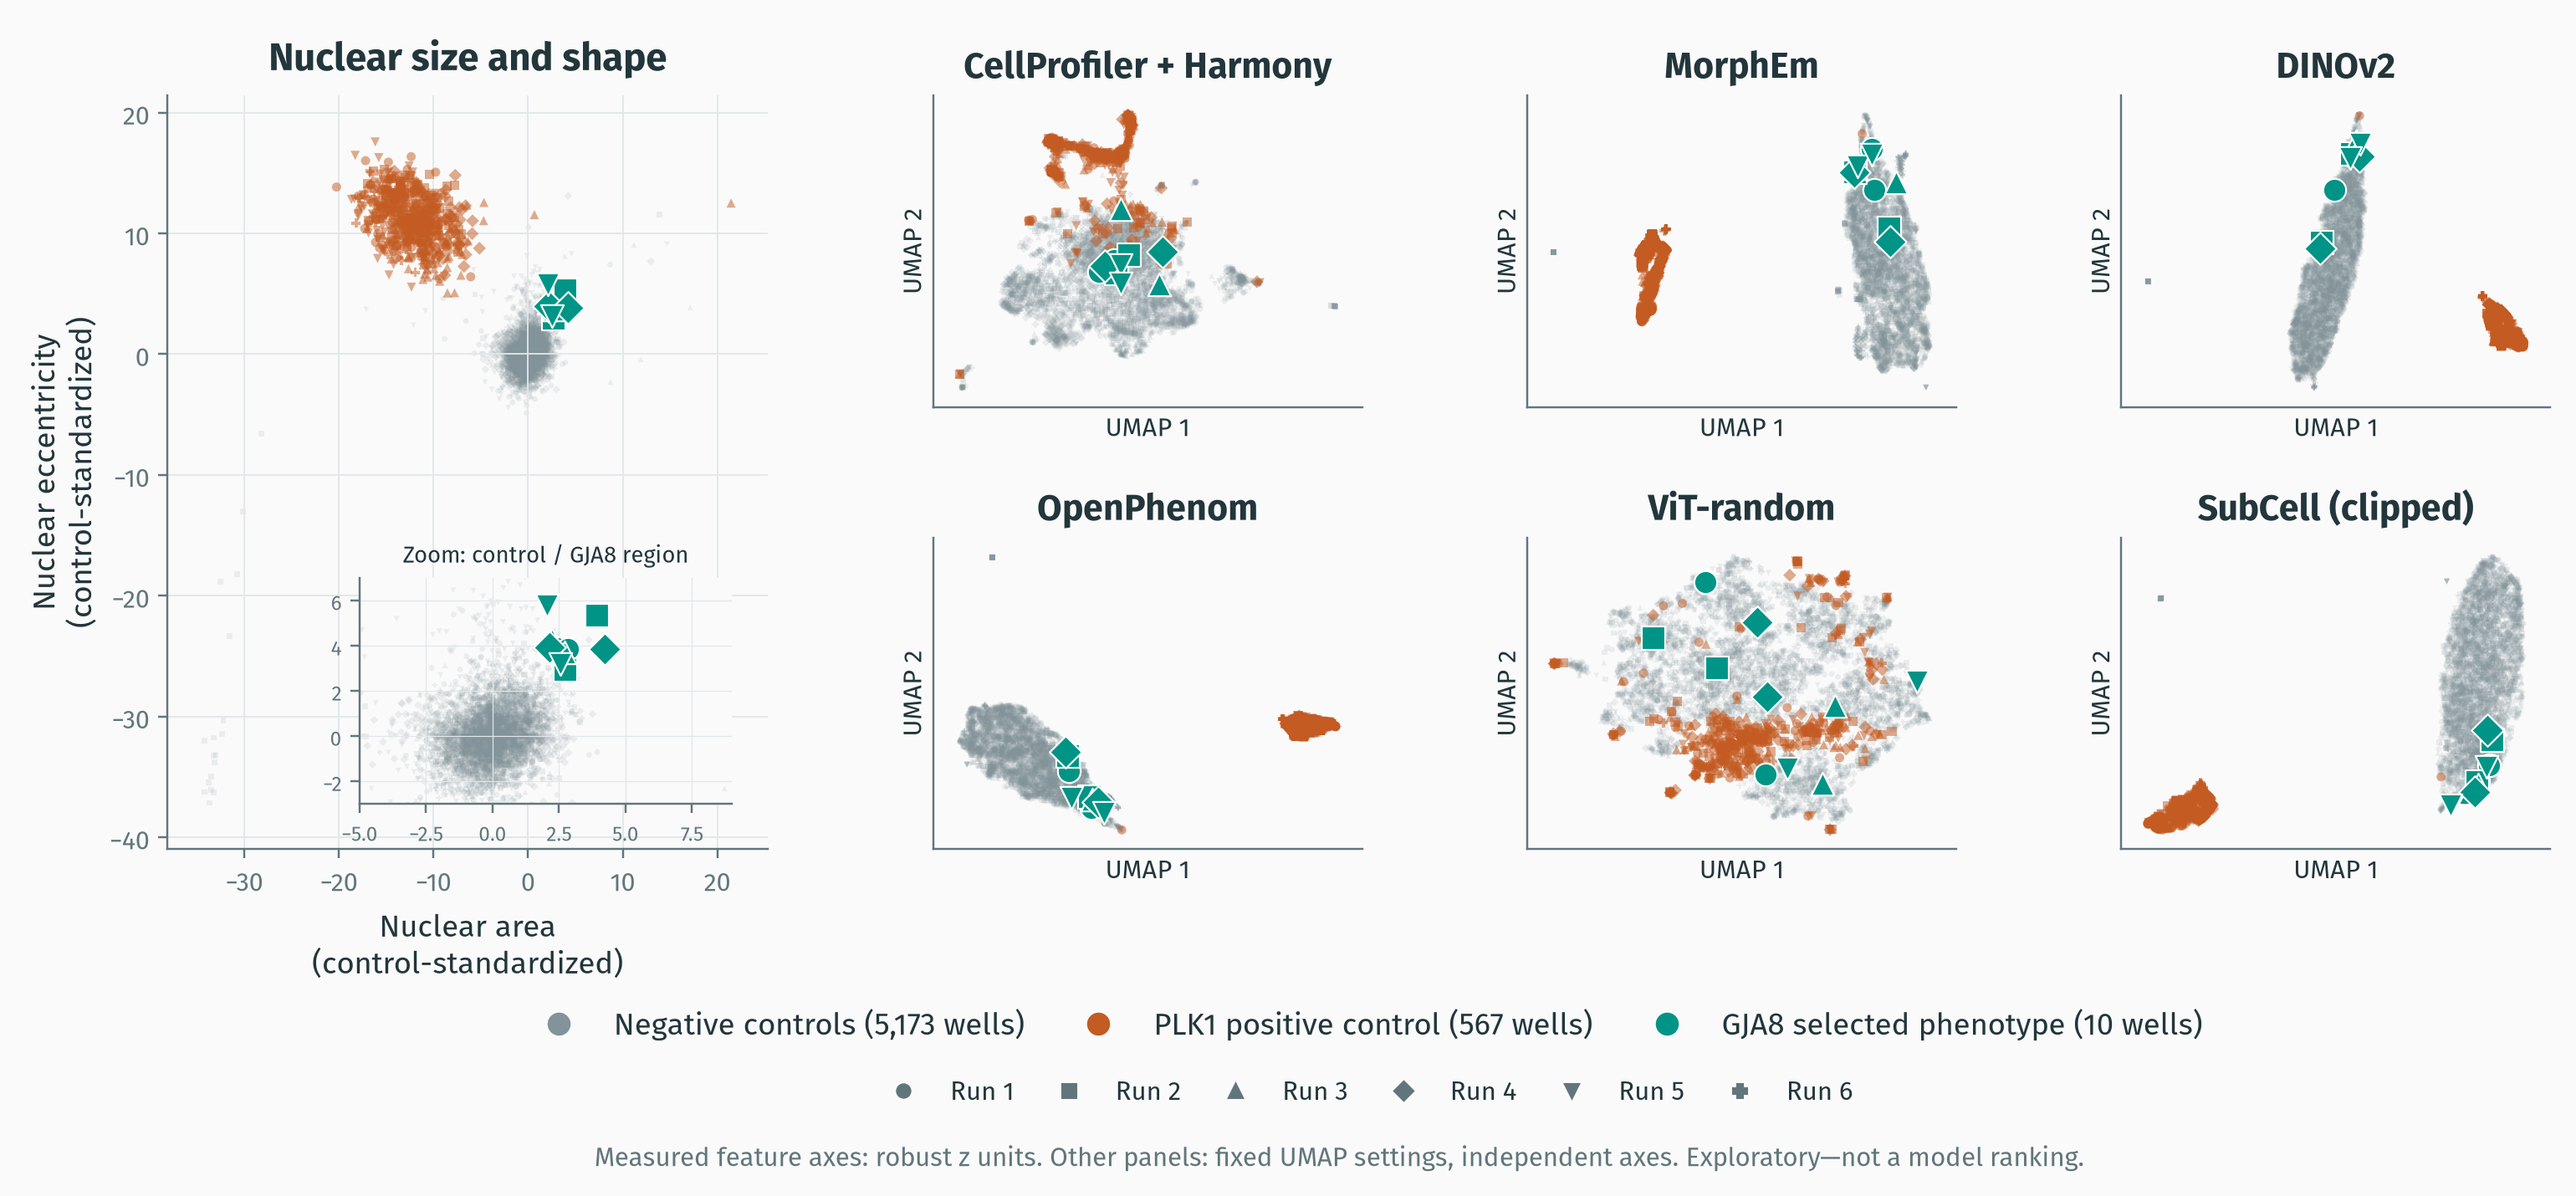
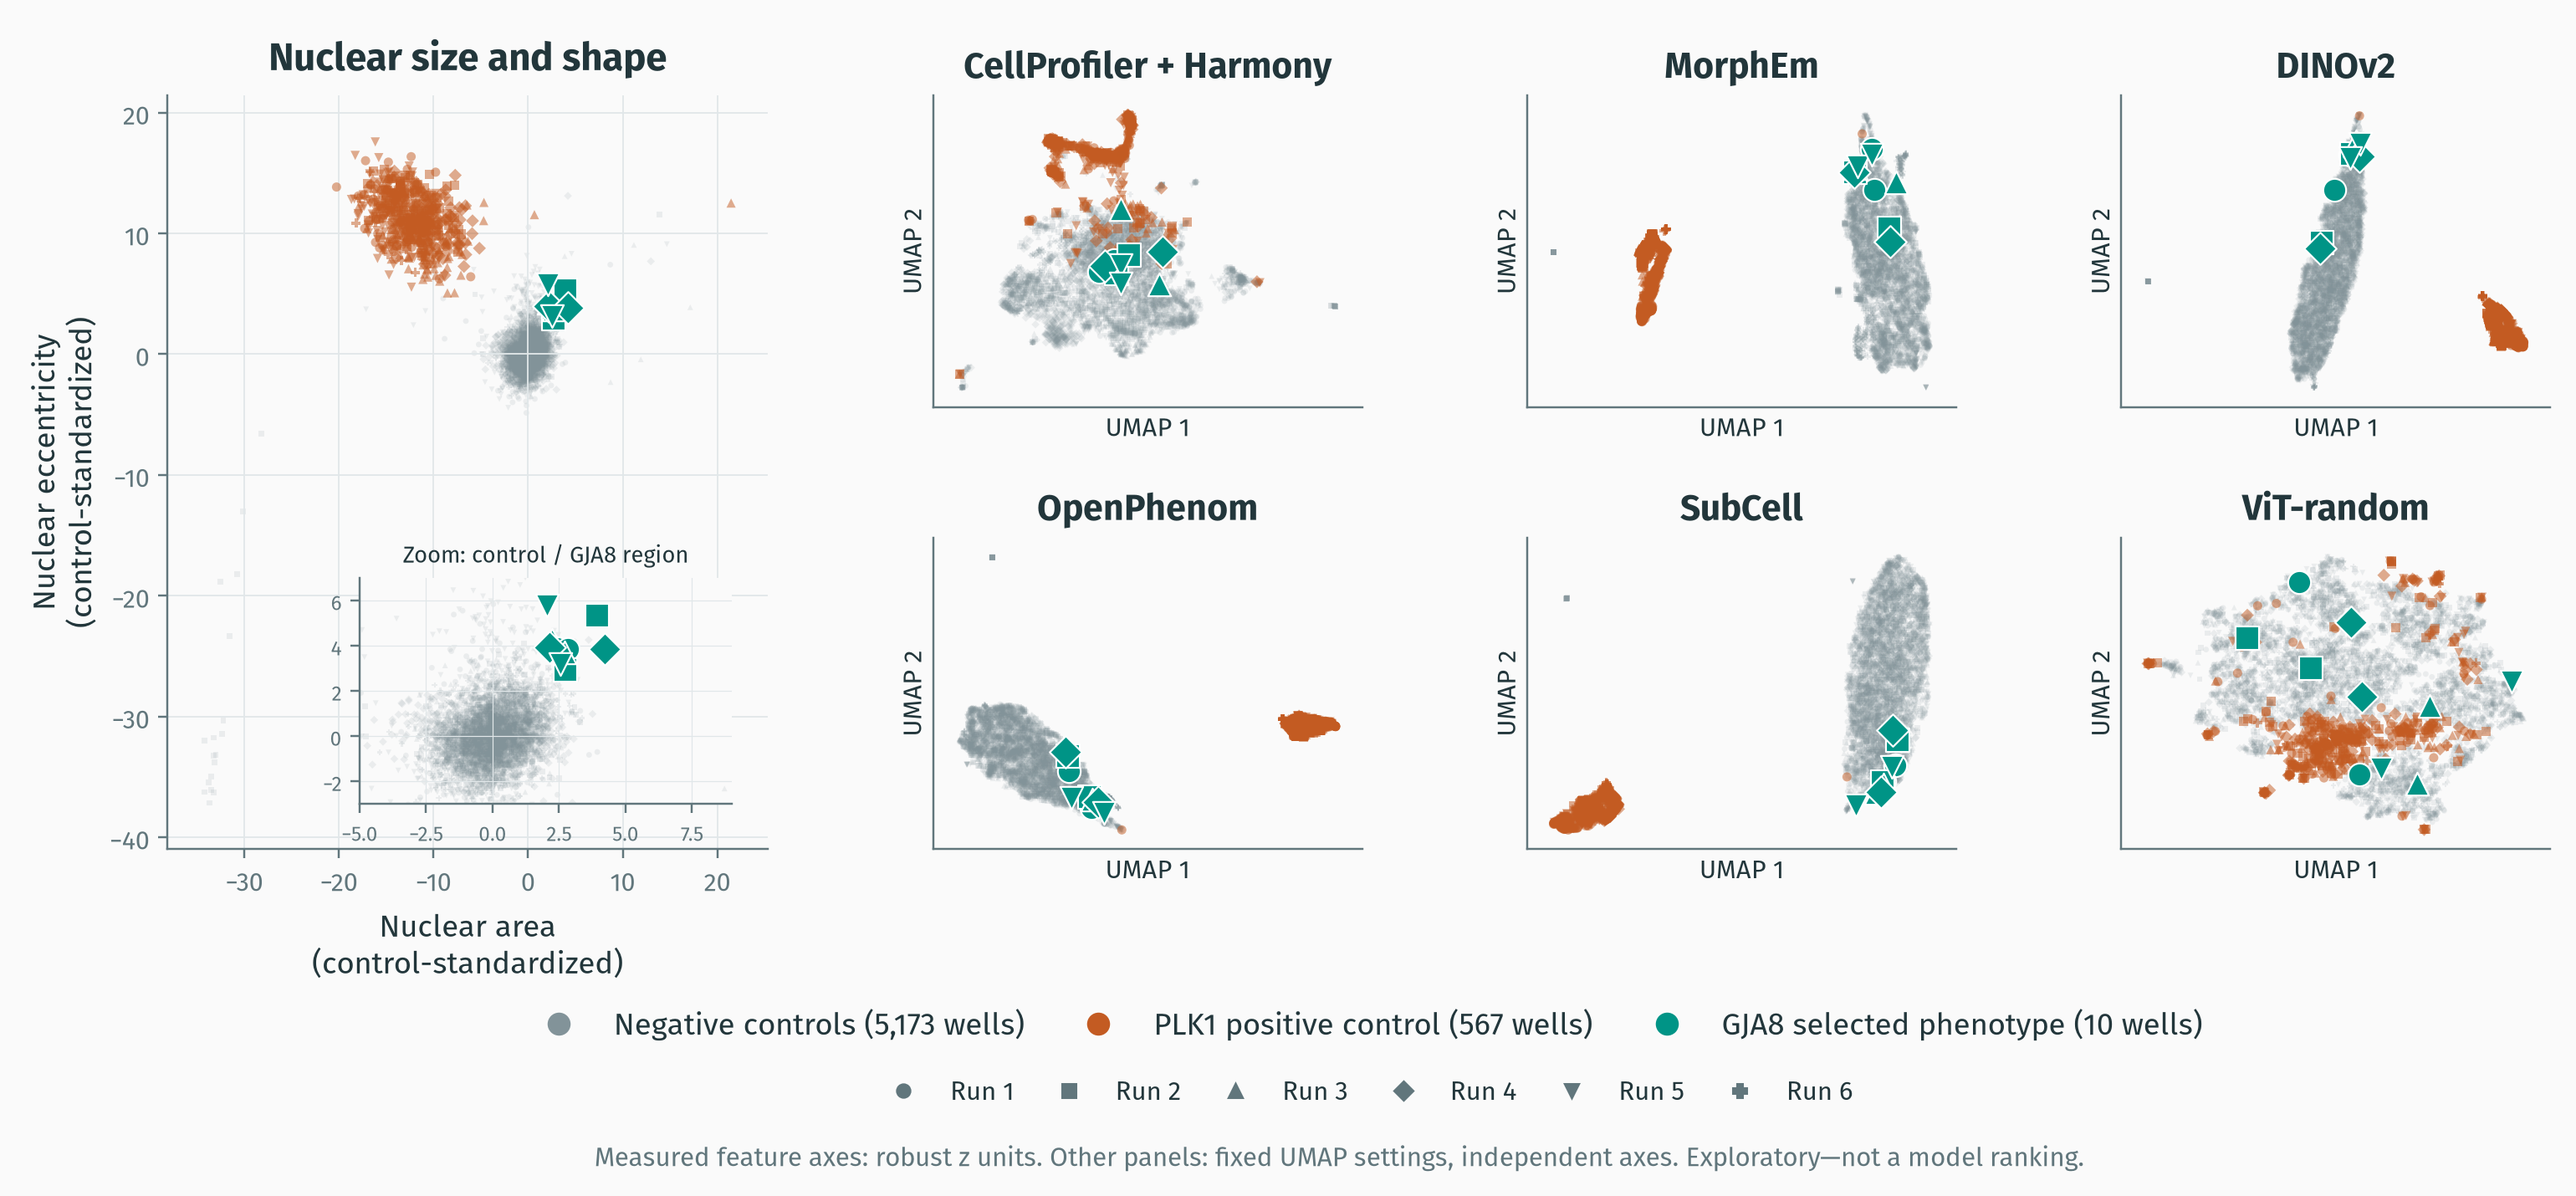
Place control context before profile extraction and remove uv reference

Changed region(s): [[0.8104, 0.4, 0.9974, 0.7077], [0.5922, 0.4615, 0.7481, 0.7077], [0.6234, 0.4, 0.7169, 0.4308]]

diff --git a/slides.tex b/slides.tex
@@ -29,7 +29,7 @@
 
 \maketitle
 \section*{Conference draft}
-\label{sec:org000001a}
+\label{sec:org000001b}
 \begin{frame}[label={sec:org0000001}]{What is Cell Painting?}
 \begin{columns}[c,onlytextwidth]
 \begin{column}{0.36\textwidth}
@@ -105,7 +105,7 @@ Profiles are numerical descriptions of cells.
 \begin{frame}[label={sec:org0000007}]{How do we ensure improvements in computational models/methods benefit experimental biologists?}
 \begin{columns}[T,onlytextwidth]
 \begin{column}{0.48\textwidth}
-\begin{block}{Method development}
+\begin{block}{Methods development (ML)}
 Does the model improve benchmark performance?
 \end{block}
 \end{column}
@@ -253,7 +253,14 @@ Interactive marimo notebook
 
 \par\smallskip\hfill{\fontsize{5.5}{6.5}\selectfont\color{gray}\href{https://doi.org/10.5281/zenodo.23462248}{Source: Muñoz (2026), JUMP Target-2 notebook recording}}
 \end{frame}
-\begin{frame}[label={sec:org0000013}]{Extract morphological profiles from your own images}
+\begin{frame}[label={sec:org0000013}]{Positive controls contextualize the perturbations}
+\begin{center}
+\includegraphics[keepaspectratio,width=0.99\linewidth,height=0.85\textheight]{assets/real-embeddings-combined.png}
+\end{center}
+
+\hfill{\fontsize{5.5}{6.5}\selectfont\color{gray}\href{https://arxiv.org/abs/2608.07632v3}{Data: JUMP-lite (2026)}; models: \href{https://huggingface.co/CaicedoLab/MorphEm}{MorphEm}, \href{https://github.com/facebookresearch/dinov2}{DINOv2}, \href{https://huggingface.co/recursionpharma/OpenPhenom}{OpenPhenom}, \href{https://github.com/CellProfiling/subcell-embed}{SubCell}; \href{https://github.com/broadinstitute/jump-profiling-recipe/tree/a917fa79342ff92cf0ea05d6d9174d9028a90f8f}{CellProfiler/Harmony recipe}}
+\end{frame}
+\begin{frame}[label={sec:org0000014}]{Extract morphological profiles from your own images}
 \begin{columns}[c,onlytextwidth]
 \begin{column}{0.44\textwidth}
 \centering
@@ -271,7 +278,7 @@ Interactive marimo notebook
 
 \par\smallskip\hfill{\fontsize{5.5}{6.5}\selectfont\color{gray}\href{https://arxiv.org/abs/2507.01163v1}{Adapted from Muñoz et al. (2025), Fig. 1}}
 \end{frame}
-\begin{frame}[label={sec:org0000014}]{Applications across biological questions}
+\begin{frame}[label={sec:org0000015}]{Applications across biological questions}
 \begin{columns}[T,onlytextwidth]
 \begin{column}{0.48\textwidth}
 \begin{block}{Evaluate new lysosomal fluorescence probes}
@@ -312,7 +319,7 @@ Interactive marimo notebook
 \end{column}
 \end{columns}
 \end{frame}
-\begin{frame}[label={sec:org0000015}]{MisLocus: a single-cell image benchmark}
+\begin{frame}[label={sec:org0000016}]{MisLocus: a single-cell image benchmark}
 \small MisLocus contains $\sim$3 million cells spanning 1,541 reference/variant alleles across 282 genes, excluding controls.\par\medskip
 \begin{columns}[T,onlytextwidth]
 \begin{column}{0.54\textwidth}
@@ -340,11 +347,11 @@ LZTR1 G248R\par\smallskip
 \end{column}
 \end{columns}\medskip
 \centering\small
-Unpublished data
+Unpublished data (preprint coming soon)
 
 \par\smallskip\hfill{\fontsize{5.5}{6.5}\selectfont\color{gray}Adapted from Carpenter-Shen Lab; unpublished data}
 \end{frame}
-\begin{frame}[label={sec:org0000016}]{Take-home messages}
+\begin{frame}[label={sec:org0000017}]{Take-home messages}
 \begin{itemize}
 \item Profiles: quantify cell state.
 \item Access: JUMP data and tools for researchers and AI agents.
@@ -353,7 +360,7 @@ Unpublished data
 \item Tools: reproducible methods support consistent analysis.
 \end{itemize}
 \end{frame}
-\begin{frame}[label={sec:org0000017}]{Thank you}
+\begin{frame}[label={sec:org0000018}]{Thank you}
 \centering
 \includegraphics[width=0.20\linewidth,height=0.08\textheight,keepaspectratio]{assets/broad-logo.png}\hspace{0.07\linewidth}
 \includegraphics[width=0.24\linewidth,height=0.08\textheight,keepaspectratio]{assets/purdue-logo.png}\par\smallskip
@@ -377,9 +384,9 @@ Runxi Shen
 \end{column}
 \end{columns}\par\smallskip
 \includegraphics[width=0.98\linewidth,height=0.50\textheight,keepaspectratio]{assets/jump-partners.png}\par\medskip
-{\small Work on cp\_measure was supported by GSK and NIH MIRA (R35 GM122547).}\par
+{\small Work on cp\_measure and JUMP-lite was supported by GSK and NIH MIRA (R35 GM122547).}\par
 \end{frame}
-\begin{frame}[label={sec:org0000018}]{References}
+\begin{frame}[label={sec:org0000019}]{References}
 \begin{columns}[T,onlytextwidth]
 \begin{column}{0.31\textwidth}
 \small
@@ -409,12 +416,11 @@ Runxi Shen
 \item \href{https://broadinstitute.github.io/jump_hub/}{JUMP Hub}: \href{https://broadinstitute.github.io/jump_hub/howto/interactive/1_jumprr_steps.html}{biological questions and table export}.
 \item Recording: \href{https://github.com/afermg/JUMP_lite/blob/main/cpg_upload/TARGET2_ARTIFACTS_README.md}{JUMP Target-2 artifacts}.
 \item \href{https://marimo.io/}{marimo}: reactive Python notebooks.
-\item \href{https://docs.astral.sh/uv/}{uv}: Python environments and dependencies.
 \end{itemize}
 \end{column}
 \end{columns}
 \end{frame}
-\begin{frame}[label={sec:org0000019}]{JUMP Hub and slides}
+\begin{frame}[label={sec:org000001a}]{JUMP Hub and slides}
 \begin{columns}[T,onlytextwidth]
 \begin{column}{0.48\textwidth}
 \centering
@@ -432,7 +438,7 @@ Runxi Shen
 \section*{Additional slides}
 \label{sec:org000001e}
 
-\begin{frame}[label={sec:org000001b}]{JUMP-lite: a compact benchmark}
+\begin{frame}[label={sec:org000001c}]{JUMP-lite: a compact benchmark}
 \begin{columns}[c,onlytextwidth]
 \begin{column}{0.52\textwidth}
 \centering
@@ -449,7 +455,7 @@ Runxi Shen
 
 \par\smallskip\hfill{\fontsize{5.5}{6.5}\selectfont\color{gray}\href{https://arxiv.org/abs/2608.07632v3}{Adapted from Muñoz et al. (2026)}}
 \end{frame}
-\begin{frame}[label={sec:org000001c}]{Nahual: swap models within one workflow}
+\begin{frame}[label={sec:org000001d}]{Nahual: swap models within one workflow}
 \centering
 {\Large\bfseries Swap models. Keep your workflow.}\par\bigskip
 \renewcommand{\arraystretch}{1.8}
@@ -459,12 +465,5 @@ Runxi Shen
 \textbf{Spot detection} & \fbox{Spotiflow} \\
 \textbf{Tracking} & \fbox{Trackastra}\ $\leftrightarrow$\ \fbox{Ultrack}
 \end{tabular}
-\end{frame}
-\begin{frame}[label={sec:org000001d}]{Two perturbations, distinct nuclear phenotypes}
-\begin{center}
-\includegraphics[keepaspectratio,width=0.99\linewidth,height=0.85\textheight]{assets/real-embeddings-combined.png}
-\end{center}
-
-\hfill{\fontsize{5.5}{6.5}\selectfont\color{gray}\href{https://arxiv.org/abs/2608.07632v3}{Data: JUMP-lite (2026)}; models: \href{https://huggingface.co/CaicedoLab/MorphEm}{MorphEm}, \href{https://github.com/facebookresearch/dinov2}{DINOv2}, \href{https://huggingface.co/recursionpharma/OpenPhenom}{OpenPhenom}, \href{https://github.com/CellProfiling/subcell-embed}{SubCell}; \href{https://github.com/broadinstitute/jump-profiling-recipe/tree/a917fa79342ff92cf0ea05d6d9174d9028a90f8f}{CellProfiler/Harmony recipe}}
 \end{frame}
 \end{document}

diff --git a/README.md b/README.md
@@ -6,26 +6,27 @@ FASEB: Organelle Cross-Talk in Cellular Homeostasis · 21 October 2026
 
 Use **`slides.tex` with XeLaTeX**, moloch and Fira Sans. Legacy, unowned `main.tex` is preserved but is **not** the compilation root.
 
-- **29 PDF pages:26main-talk +3additional**,23-minute narration in a25-minute slot.
-- Overleaf commit: `1e105ccb9d344aeade84f3cee9b32d70783e2565`
-- Canonical source commit: `9006f3dff26cb74a19b8e2cc03c046ebeacb87e8`
-- Direct author changes through `f300b3899b7c6d0812264d875bf362f0f7e2c446` preserved.
+- **29 PDF pages:27main-talk +2additional**,23-minute narration in a25-minute slot.
+- Overleaf commit: `e8a6a90b59948cd3e1739364091c3345e11430c5`
+- Canonical source commit: `e27cb6e045a2c44a72dc3b1a6ef1e9a4ff66568a`
+- Direct author changes through `dee36e090c8968d4f68303a4c6d990ddc09b72c4` preserved.
 
 ## Current slide order
 
 | PDF page | Content |
 |---|---|
-| 5–7 | Word2vec → clearer cell vectors → JUMP |
-| 10 | Tutorials,how-tos and resources beyond this talk |
-| 16–18 | Modern tools → AI assistants → interactive notebook |
-| 18–19 | Play separate MP4 at18(visible17);return to19 |
-| 21–22 | Applications → **MisLocus,in the main talk** |
-| 24–26 | Acknowledgements/funding → References → QR closing |
-| 27–29 | Additional JUMP-lite → Nahual → combined control figure |
+| 5–7 | Word2vec → cell vectors → JUMP |
+| 10 | Tutorials,how-tos and resources |
+| 16–19 | Modern tools → AI → notebook(play18,return19) |
+| 20 | **Positive controls contextualize the perturbations** |
+| 21 | Extract morphological profiles from your own images |
+| 22–23 | Applications → MisLocus |
+| 24–27 | Take-homes → Thanks/funding → References → QR closing |
+| 28–29 | Additional JUMP-lite → Nahual |
 
-MisLocus22 is labeled **Unpublished data**, with the author-removed personal/lab caption absent and the small adaptation footer retained, with no displayed Hugging Face link. Its scale sentence reports approximately3million cells,1,541reference/variant alleles and282genes,excluding controls; source documentation is retained as internal provenance. The two original LZTR1 image panels are unchanged.
+MisLocus23 is labeled **Unpublished data (preprint coming soon)**, with the author-removed personal/lab caption absent and the small adaptation footer retained, with no displayed Hugging Face link. Its scale sentence reports approximately3million cells,1,541reference/variant alleles and282genes,excluding controls; source documentation is retained as internal provenance. The two original LZTR1 image panels are unchanged.
 
-Page29 compares **PLK1 and GJA8** across5,750matched wells:567PLK1,10GJA8 and5,173negative controls. PLK1 is the annotated positive control;GJA8 is a selected phenotype example,not an annotated control. A large measured nuclear-area/eccentricity plot accompanies six fixed UMAPs:CellProfiler+Harmony,MorphEm,DINOv2,OpenPhenom,ViT-random and clipped SubCell. Cell count and standard SubCell are not displayed. The labeled zoom complements the full-range feature plot;UMAP overlap is retained. Selection is exploratory,not a model ranking or evidence of count-independent morphology.
+Page20 compares **PLK1 and GJA8** across5,750matched wells:567PLK1,10GJA8 and5,173negative controls. PLK1 is the annotated positive control;GJA8 is a selected phenotype example,not an annotated control. A large measured nuclear-area/eccentricity plot accompanies six fixed UMAPs:CellProfiler+Harmony,MorphEm,DINOv2,OpenPhenom,SubCell and ViT-random last. Cell count and standard SubCell are not displayed. The labeled zoom complements the full-range feature plot;UMAP overlap is retained. Selection is exploratory,not a model ranking or evidence of count-independent morphology.
 
 Reality check and the six separate model slides are not exported. All four visible “Adapted from Muñoz,Cell Circuits(2024)” credits are removed; provenance is retained elsewhere. Exact Mac workflow,word2vec,JUMP-lite artwork,microscopy pixels,video and both40-mm QR payloads are preserved. The cell schematic remains illustrative despite removal of its visible disclaimer; the axis reads **Granularity Mito Channel**.
 
@@ -38,3 +39,5 @@ All six toolbox names remain:Cellpose,Spotiflow,Trackastra,Ultrack,cp_measure,ma
 Only three artwork PDFs are tracked:`assets/vector-interpretability.pdf`,`assets/cell-painting-edited.pdf`,`assets/word2vec-example.pdf`.
 
 The unchanged23.16-second MP4 is separate from the PDF:<https://doi.org/10.5281/zenodo.23462248>,CC BY4.0.
+
+Latest display edit:the SubCell label no longer includes “(clipped)”,but its underlying clipped-input profiles are unchanged. ViT-random is last. The uv environments/dependencies reference is removed. The updated ML heading,preprint note and cp_measure/JUMP-lite funding credit preserve the latest direct author edits. Controls20/extraction21 share30+45seconds,keeping1380seconds total. No additional positive-control validation results were added in this layout-only revision.
